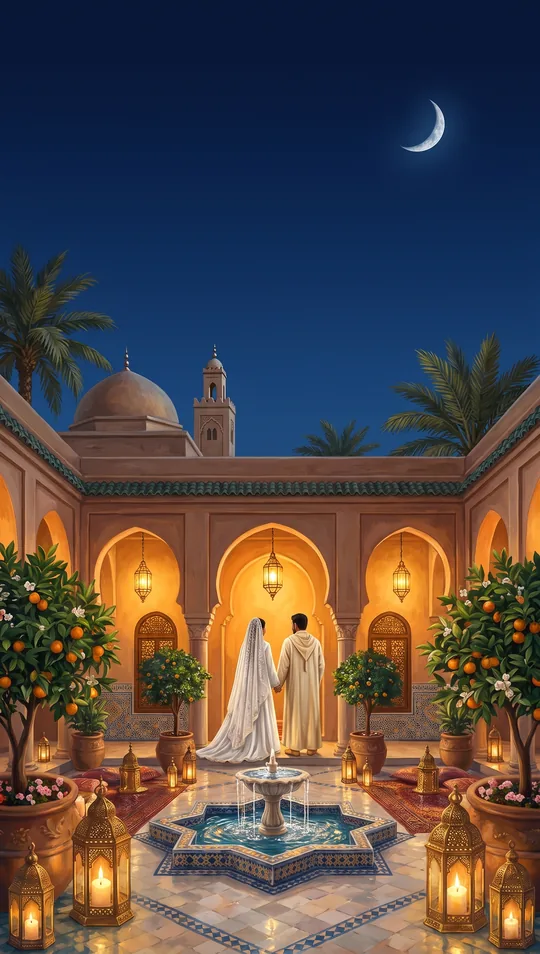
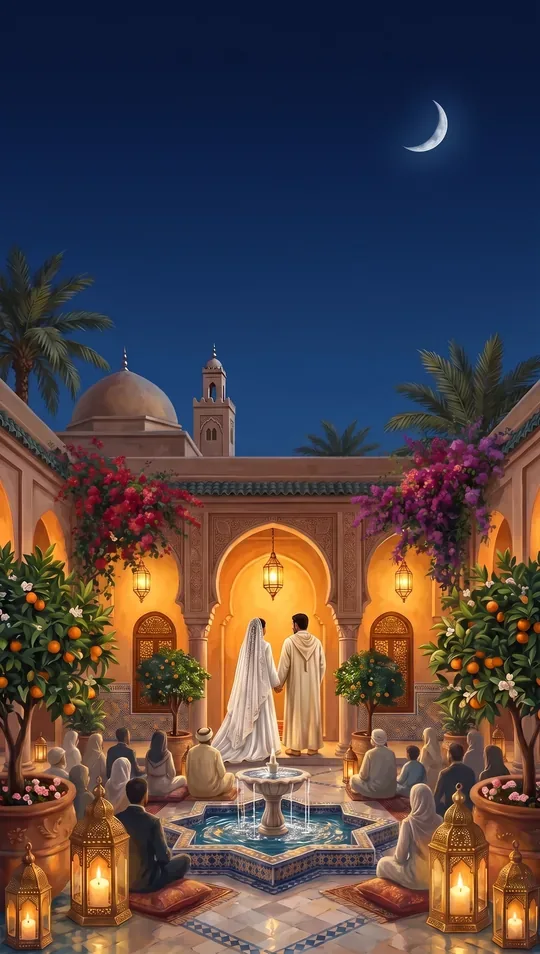
Mille et une nuits et Andalou : script de repeinture et réglages des thèmes (images en cours de génération)
Claude-Session: https://claude.ai/code/session_01R5nF4Xbit5ZovA9fQpJaCu

diff --git a/business/landing/vitrine.js b/business/landing/vitrine.js
@@ -143,7 +143,7 @@
   const VARS=k=>Object.keys(THEMES).filter(v=>v===k||THEMES[v].group===k&&v!==k);
   [...KEYS].sort((a,b)=>!!THEMES[b].compose-!!THEMES[a].compose).forEach(k0=>VARS(k0).forEach(k=>{ const t=THEMES[k], d=DEMOS0.find(x=>x.theme===k&&x.slug!=='yasmine-karim'&&!x.kind&&x.layout!=='long');
     if(!d) return;
-    CREAS.push(Object.assign({},t,{kind:'pages',k,label:t.name+(t.amb?' · '+t.amb:''),desc:t.amb?t.ambSub:(t.style!==t.name?t.style+' · ':'')+t.short,href:'/d/'+d.slug+'/',tag:t.name,img:i=>`/img/themes/${k}-${i}.webp?v=17`})); }));
+    CREAS.push(Object.assign({},t,{kind:'pages',k,label:t.name+(t.amb?' · '+t.amb:''),desc:t.amb?t.ambSub:(t.style!==t.name?t.style+' · ':'')+t.short,href:'/d/'+d.slug+'/',tag:t.name,img:i=>`/img/themes/${k}-${i}.webp?v=18`})); }));
   // notre faire-part reel : les vrais lieux du couple, peints et animes (demo Yasmine & Karim)
   if(KEYS.includes('nuits')) CREAS.push({kind:'pages',k:'yk',label:'Yasmine & Karim',desc:'Leurs vrais lieux, peints et animés : mairie, salle, ville',href:'/d/yasmine-karim/',tag:'Lieux réels peints',
     couple:'Yasmine & Karim',font:'"Great Vibes",cursive',color:'#2c2114',ey:'#8a6a2c',tx:'#5a4632',light:true,img:i=>`/img/reel/yk-${i}.webp`,
@@ -189,7 +189,7 @@
   // une carte par thème, avec ses deux formats : « scène par scène » (démo pages) et « grand tableau » (démo long)
   const card=(k)=>{ const t=THEMES[k], ds=DEMOS.find(x=>x.theme===k&&x.layout!=='long'&&!x.kind), dl=DEMOS.find(x=>x.theme===k&&x.layout==='long'&&!x.kind);
     const m=document.createElement('div'); m.className='model'; m.dataset.theme=k; m.dataset.style=t.style;
-    m.innerHTML=`<a class="pic" href="/d/${esc((ds||dl).slug)}/" target="_blank" rel="noopener" aria-label="Ouvrir le faire-part ${esc(t.name)}"><img src="/img/themes/${k}-1.webp?v=17" alt="" loading="lazy"><img class="pic2" src="/img/themes/${k}-2.webp?v=17" alt="" loading="lazy" aria-hidden="true"><span class="cn" style="${esc(`font-family:${t.font};${t.italic?'font-style:italic;':''}${t.upper?'text-transform:uppercase;letter-spacing:.1em;font-size:19px;':''}`)}">${esc(t.couple)}</span></a><div class="meta"><div><h3>${esc(t.name)}</h3><p class="style">${esc(t.style+' · '+t.short)}</p></div>
+    m.innerHTML=`<a class="pic" href="/d/${esc((ds||dl).slug)}/" target="_blank" rel="noopener" aria-label="Ouvrir le faire-part ${esc(t.name)}"><img src="/img/themes/${k}-1.webp?v=18" alt="" loading="lazy"><img class="pic2" src="/img/themes/${k}-2.webp?v=18" alt="" loading="lazy" aria-hidden="true"><span class="cn" style="${esc(`font-family:${t.font};${t.italic?'font-style:italic;':''}${t.upper?'text-transform:uppercase;letter-spacing:.1em;font-size:19px;':''}`)}">${esc(t.couple)}</span></a><div class="meta"><div><h3>${esc(t.name)}</h3><p class="style">${esc(t.style+' · '+t.short)}</p></div>
       <div class="fmts">${VARS(k).map(v=>{ const d=DEMOS.find(x=>x.theme===v&&x.layout!=='long'&&!x.kind); return d?`<a href="/d/${esc(d.slug)}/" target="_blank" rel="noopener"><i aria-hidden="true"><svg viewBox="0 0 24 24"><path d="M9 6.5v11l9-5.5z"/></svg></i><span><b>${esc(THEMES[v].amb||'Voir l’exemple')}</b><small>${esc(d.couple)}</small></span></a>`:''; }).join('')}</div>
       <div class="acts">${t.compose?`<a class="go" href="/creer/?theme=${esc(k)}">Composer →</a>`:`<a class="go" href="/contact/?theme=${esc(k)}">Avec nous →</a>`}</div></div>`;
     models.appendChild(m); };
@@ -197,7 +197,7 @@
   // faire-part d'un seul événement (« one shot ») : le henné, le sbouâ ; chacun avec sa démo et son lien vers le configurateur
   const one=document.getElementById('oneShots');
   if(one) one.innerHTML=[['henne','Henné','L’invitation à la soirée henné, seule ou en plus du mariage.'],['sbou3','Sbouâ','La naissance de votre enfant, fêtée au septième jour.']].map(([id,nm,tx])=>{ const d=DEMOS.find(x=>x.kind===id); if(!d) return ''; const t=THEMES[d.theme];
-    return `<div class="model one"><a class="pic" href="/d/${esc(d.slug)}/" target="_blank" rel="noopener"><img src="/img/themes/${esc(d.theme)}-${id==='henne'?2:1}.webp?v=17" alt="" loading="lazy"><span class="cn" style="${esc(`font-family:${t.font};${t.italic?'font-style:italic;':''}`)}">${esc(d.couple)}</span></a>
+    return `<div class="model one"><a class="pic" href="/d/${esc(d.slug)}/" target="_blank" rel="noopener"><img src="/img/themes/${esc(d.theme)}-${id==='henne'?2:1}.webp?v=18" alt="" loading="lazy"><span class="cn" style="${esc(`font-family:${t.font};${t.italic?'font-style:italic;':''}`)}">${esc(d.couple)}</span></a>
       <div class="meta"><div><h3>${nm}</h3><p class="style">${esc(t.name)} · un seul événement</p><p>${tx}</p></div></div>
       <div class="fmts"><a href="/d/${esc(d.slug)}/" target="_blank" rel="noopener"><i aria-hidden="true"><svg viewBox="0 0 24 24"><path d="M9 6.5v11l9-5.5z"/></svg></i><span><b>Voir l’exemple</b><small>${esc(d.couple)}</small></span></a></div>
       <div class="acts">${t.compose?`<a class="go" href="/creer/?occasion=${id}&theme=${esc(d.theme)}">Composer →</a>`:`<a class="go" href="/contact/?occasion=${id}&theme=${esc(d.theme)}">Avec nous →</a>`}</div></div>`; }).join('');
@@ -293,7 +293,7 @@
     if(e.lieu!==was&&e.place===PLACE[was]&&PLACE[e.lieu]){ e.place=PLACE[e.lieu]; document.querySelectorAll(`#cStory li.ev[data-i="${i}"] input[data-k="place"]`).forEach(x=>x.value=e.place); } });
   fixLieux();
   GRPS.forEach(g=>{ const k0=CK.find(k=>grp(k)===g), t=THEMES[k0], b=document.createElement('button'); b.type='button'; b.className='th'; b.dataset.id=g;
-    b.innerHTML=`<span style="background-image:url('/img/themes/${k0}-1.webp?v=17')"></span>${esc(t.name)}`;
+    b.innerHTML=`<span style="background-image:url('/img/themes/${k0}-1.webp?v=18')"></span>${esc(t.name)}`;
     b.onclick=()=>{ if(grp(C.k)!==g){ C.k=k0; C.font='theme'; fixLieux(); } paint(); }; $('cStyles').appendChild(b); });
   // les deux formats, annoncés dès le début : scène par scène (un événement par écran) ou grand tableau (un seul tableau qu'on descend)
   // img/reel/scenes-<thème>.webp et tableau-<thème>.webp : captures des deux démos du thème, toute la page (7 écrans de 844 px
@@ -308,7 +308,7 @@
   function buildAmb(){ const g=grp(C.k); if(ambG===g) return; ambG=g; const box=$('cFmt'), V=CK.filter(k=>grp(k)===g); box.innerHTML='';
     box.closest('.fld').hidden=V.length<2;
     V.forEach(k=>{ const t=THEMES[k], b=document.createElement('button'); b.type='button'; b.className='fmtc'; b.dataset.id=k;
-      b.innerHTML=`<span class="fv">${REEL.includes(k)?`<i class="tbp"><i class="tb scenes" style="background-image:url('/img/reel/scenes-${k}.webp')"></i></i>`:[1,2,4].map(n=>`<i style="background-image:url('/img/themes/${k}-${n}.webp?v=17')"></i>`).join('')}</span><b>${esc(t.amb||t.name)}</b><small>${esc(t.ambSub||'')}</small>`;
+      b.innerHTML=`<span class="fv">${REEL.includes(k)?`<i class="tbp"><i class="tb scenes" style="background-image:url('/img/reel/scenes-${k}.webp')"></i></i>`:[1,2,4].map(n=>`<i style="background-image:url('/img/themes/${k}-${n}.webp?v=18')"></i>`).join('')}</span><b>${esc(t.amb||t.name)}</b><small>${esc(t.ambSub||'')}</small>`;
       b.onclick=()=>{ C.k=k; fixLieux(); paint(); }; box.appendChild(b); }); }
   const PLANSUB={carte:'L’image et le PDF, à envoyer et à imprimer',page:'Un lien, tout sur une page',essentiel:'2 événements, lieux de notre bibliothèque',signature:'+ votre lieu peint d’après photo, un lien par famille',couture:'tout sur mesure, on vous écrit'};
   opt($('cPlan'),Object.keys(PLANS),'plan','',(b,id)=>{ b.className='op-card'; b.innerHTML=`<b>${PLANS[id].name} · ${PLANS[id].price}</b><small>${PLANSUB[id]}</small>`; });
@@ -629,7 +629,7 @@
       // « Texte seul » : écran simple (scène par scène), ou la scène peinte du thème dans le cadre (grand tableau)
       const sim=l.querySelector('[data-lieu="simple"] em'); if(sim) sim.textContent=C.fmt==='long'?'Scène du thème':'Texte seul';
       l.querySelectorAll('[data-lieu]').forEach(b=>{ const id=b.dataset.lieu; b.setAttribute('aria-pressed',id==='simple'?e.bg!=='scene':e.bg==='scene'&&id===e.lieu);
-        b.firstChild.style.backgroundImage=id==='s2'?`url('/img/themes/${C.k}-2.webp?v=17')`:id==='simple'?(C.fmt==='long'?`url('/img/themes/${C.k}-${2+(+l.dataset.i%3)}.webp?v=17')`:`url('/img/lieux/${kOf('fond')}-fond.webp?v=17')`):`url('/img/lieux/${kOf(id==='photo'?'eglise':id)}-${id==='photo'?(THEMES[C.k].lieux||['eglise'])[0]:id}.webp?v=17')`; });
+        b.firstChild.style.backgroundImage=id==='s2'?`url('/img/themes/${C.k}-2.webp?v=18')`:id==='simple'?(C.fmt==='long'?`url('/img/themes/${C.k}-${2+(+l.dataset.i%3)}.webp?v=18')`:`url('/img/lieux/${kOf('fond')}-fond.webp?v=18')`):`url('/img/lieux/${kOf(id==='photo'?'eglise':id)}-${id==='photo'?(THEMES[C.k].lieux||['eglise'])[0]:id}.webp?v=18')`; });
       // la grande vignette reprend le décor choisi, avec son nom
       const sel=l.querySelector('[data-lieu][aria-pressed="true"]'), pic=l.querySelector('[data-pick] span');
       if(sel&&pic){ pic.style.backgroundImage=sel.firstChild.style.backgroundImage; pic.dataset.n=(sel.querySelector('em')||{}).textContent||sel.textContent.replace('Signature','').trim(); } });
@@ -651,7 +651,7 @@
     const SEAL={or:['or','#fbe3a0','#c99a3a','#6e4a12'],sauge:['sauge','#e4ecd6','#8fa37f','#3f4d36'],terracotta:['terracotta','#f5b085','#c0643f','#4f1f0c'],nuit:['bleu','#9bb4e8','#2f4f94','#0c1a3d'],rose:['rose','#fff0f2','#d99aa6','#7a4250'],bordeaux:['terracotta','#e8a0a8','#7a2e3b','#3a1018'],lavande:['bleu','#d9d2f0','#8a7fb5','#3d3660'],emeraude:['sauge','#cfe7db','#2f6b57','#143427'],ardoise:['bleu','#c9d0d8','#4a5560','#1f262c'],champagne:['or','#f6ead2','#cdb48a','#6e5a35']}[p.seal||C.pal]||['or','#fbe3a0','#c99a3a','#6e4a12'];
     $('opSeal').style.backgroundImage=`url('/img/seals/${SEAL[0]}.webp')`;
     mountMini(t,p);
-    [$('cOpen'),$('cReveal')].forEach(x=>{ x.style.setProperty('--sc',C.fmt==='long'?`url('/img/long/${C.k}/thumb.webp')`:`url('/img/themes/${C.k}-1.webp?v=17')`); x.classList.toggle('lg',C.fmt==='long'); x.style.setProperty('--op',`url('/img/open/${C.k}-portes.webp')`); x.querySelectorAll('.ov-door').forEach(D=>window.sceauDoorFit&&sceauDoorFit(D,THEMES[C.k].door,D.querySelector('.ow'),D.querySelector('.dl'),D.querySelector('.dr'))); x.style.setProperty('--ri',`url('/img/open/${C.k}-rideau.webp')`); x.style.setProperty('--seal',`url('/img/seals/${SEAL[0]}.webp')`); x.style.setProperty('--pc',p.c); });
+    [$('cOpen'),$('cReveal')].forEach(x=>{ x.style.setProperty('--sc',C.fmt==='long'?`url('/img/long/${C.k}/thumb.webp')`:`url('/img/themes/${C.k}-1.webp?v=18')`); x.classList.toggle('lg',C.fmt==='long'); x.style.setProperty('--op',`url('/img/open/${C.k}-portes.webp')`); x.querySelectorAll('.ov-door').forEach(D=>window.sceauDoorFit&&sceauDoorFit(D,THEMES[C.k].door,D.querySelector('.ow'),D.querySelector('.dl'),D.querySelector('.dr'))); x.style.setProperty('--ri',`url('/img/open/${C.k}-rideau.webp')`); x.style.setProperty('--seal',`url('/img/seals/${SEAL[0]}.webp')`); x.style.setProperty('--pc',p.c); });
     $('opSealTxt').innerHTML=iniH; $('opSealTxt').style.cssText=`--l:${SEAL[1]};--m:${SEAL[2]};--d:${SEAL[3]}`;
     $('opTap').textContent=C.op==='env'?'Touchez le sceau pour ouvrir':'Touchez pour ouvrir';
     { const o=$('cpOp'); o.style.setProperty('--door',`url('/img/open/${C.k}-portes.webp')`); o.style.setProperty('--cur',`url('/img/open/${C.k}-rideau.webp')`); o.style.setProperty('--pal',p.c); o.style.setProperty('--man',DOORMEN.includes(C.k)?`url('/img/open/${C.k}-portier.webp')`:'none');
@@ -675,8 +675,8 @@
       // un numéro = scène du thème ; un nom = lieu de la bibliothèque, ou « fond » pour un écran simple
       // calque : le sujet détouré est posé entier au bas de l'écran sur le fond du thème (même rendu que le moteur)
       const hasCal=((window.SCEAU_CALQUES||{})[kk]||[]).includes(String(img));
-      const src=hasCal?`/img/lieux/${kk}-ciel.webp`:typeof img==='number'?`/img/themes/${kk}-${img}.webp?v=17`:`/img/lieux/${kk}-${img}.webp?v=17`;
-      const sub=hasCal?`/img/calques/${kk}-${img}.webp?v=17`:'';
+      const src=hasCal?`/img/lieux/${kk}-ciel.webp`:typeof img==='number'?`/img/themes/${kk}-${img}.webp?v=18`:`/img/lieux/${kk}-${img}.webp?v=18`;
+      const sub=hasCal?`/img/calques/${kk}-${img}.webp?v=18`:'';
       return {lt,c,html:h=>`<section class="pv-sc${lt?' light':''}" data-img="${esc(src)}" data-sub="${esc(sub)}" style="${esc(extra||'')}">${h(c)}</section>`}; };
     // boutons de l'aperçu : même pastille que le faire-part (invite.css .b), icône dans un médaillon à la couleur choisie
     const btn=(c,label,icon)=>`<span class="bt" style="color:${c.tx};--pal:${p.c}">${BT_IC[icon]}${esc(label)}</span>`;

diff --git a/business/landing/themes.js b/business/landing/themes.js
@@ -177,7 +177,15 @@ window.sceauDoorFit=function(root,box,wall,l,r){
 window.SCEAU_THEMES.nuits.compose=true; window.SCEAU_THEMES.alhambra.compose=true;
 // leurs lieux peints (img/lieux) : tous proposés, le thème n'impose pas la mosquée ; l'Andalou n'a pas d'église (-> mairie)
 window.SCEAU_THEMES.nuits.lieux=['mairie','eglise','mosquee','salle','jardin','plage'];
-window.SCEAU_THEMES.alhambra.lieux=['mairie','mosquee','salle','jardin','plage']; window.SCEAU_THEMES.alhambra.lieuAlt={eglise:'mairie'};
+window.SCEAU_THEMES.alhambra.lieux=['mairie','eglise','mosquee','salle','jardin','plage'];
+/* repeints le 10 octobre 2026 selon les règles de Dolce Vita (tools/nuits-andalou.py, 38 images accordées) : des peintures
+   entières composées pour le plein écran (cover), sans calques ; l'accueil s'ouvre sur les mains, la réponse sur les verres
+   (thé à la menthe, citronnade à la fleur d'oranger), chaque écran d'infos a sa scène, et la fête, le cocktail, la sortie
+   sont des décors de plus. L'Andalou est de jour (texte foncé), sauf sa fête du soir. */
+['nuits','alhambra'].forEach(k=>{ const t=window.SCEAU_THEMES[k]; t.nocal=true; t.home='mains'; t.extra=['fete','cocktail','sortie'];
+  t.cover=['1','2','3','4','mains','verres','fond','mairie','eglise','mosquee','salle','jardin','plage','fete','cocktail','sortie','prog','dress','info'];
+  t.pageImg={program:'prog',dress:'dress',stay:'info',infos:'info',rsvp:'verres'}; });
+window.SCEAU_THEMES.alhambra.darkLieux=['fete'];
 window.SCEAU_BASMALA='﷽';
 window.SCEAU_BASMALA_LABEL='Bismillah ar-Rahman ar-Rahim';
 window.sceauEy=function(t){ t=t==null?'':String(t); return /^\s*(bismillah|bismillah\s+ar-?rahman\s+ar-?rahim|basmala)\s*$/i.test(t)?{ar:true,text:window.SCEAU_BASMALA}:{ar:false,text:t}; };

diff --git a/business/landing/invite.js b/business/landing/invite.js
@@ -96,7 +96,7 @@
   const isJ=n=>String(n).startsWith('j:'), jk=n=>String(n).slice(2);
   const hourOf=e=>{ const m=/T(\d{1,2})/.exec(e&&e.start||''); return m?+m[1]:12; };
   const dayKey=(k,day)=>day&&J&&(/^\d+$/.test(String(k))||k==='fond'||(J.lieux||[]).includes(k)||k===J.home||Object.values(J.pageImg||{}).includes(k))?'j:'+k:k;
-  const IMGV=23, img=n=>isJ(n)?`/img/hd/${T.jour}-${jk(n)}.webp?v=${IMGV}`:`/img/hd/${I.theme}-${n}.webp?v=${IMGV}`;
+  const IMGV=24, img=n=>isJ(n)?`/img/hd/${T.jour}-${jk(n)}.webp?v=${IMGV}`:`/img/hd/${I.theme}-${n}.webp?v=${IMGV}`;
   // calques : pour les scènes qui en ont (build-site.py liste img/calques/<thème>-<n>.webp), le décor est le fond calme du
   // thème et le sujet détouré est posé ENTIER en bas de l'écran (plus de rognage selon le téléphone), avec un peu de profondeur
   const CAL=new Set(I.calques||[]), hasCal=n=>CAL.has(String(n)), fond=`/img/hd/${I.theme}-ciel.webp?v=${IMGV}`, cal=n=>`/img/calques/${I.theme}-${n}.webp?v=${IMGV}`;

diff --git a/business/landing/carte.js b/business/landing/carte.js
@@ -10,7 +10,7 @@
 (function(){
   const TH=()=>window.SCEAU_THEMES||{};
   const esc=t=>String(t==null?'':t).replace(/[&<>"']/g,c=>({'&':'&amp;','<':'&lt;','>':'&gt;','"':'&quot;',"'":'&#39;'}[c]));
-  const IMGV=23;
+  const IMGV=24;
   const INK='#2b2621';
   // les trois papiers (carte.css, .ct-p-*) : leur teinte, et la plus sombre que prend le relief (pour mesurer l'encre)
   const PAPERS={coton:{c:'#f8f2e7',low:'#ddd3c3'},aquarelle:{c:'#f9f6f0',low:'#d8d3ca'},velin:{c:'#f7f0e2',low:'#e0d6c4'}};

diff --git a/business/tools/nuits-andalou.py b/business/tools/nuits-andalou.py
@@ -1,0 +1,173 @@
+"""Mille et une nuits (riad de nuit, texte blanc) et l'Andalou (palais de jour, texte foncé) repeints selon les règles de
+Dolce Vita et Douce France (10 octobre 2026, 38 images accordées, ~5,70 € : « tu l'as archi mal fait, il respecte pas les
+règles qu'on a faites pour Dolce Vita, c'est mal coupé »). L'Andalou était en vignettes sur papier crème, coupées droit.
+
+Par thème, 19 images, une génération chacune, composées pour le plein écran (cover, sujet dans les 80 % du milieu, ciel ou
+mur qui descend derrière toute la scène, rien qui s'arrête sur une ligne droite, invités de dos) :
+  1 2 3 4                                  les scènes du thème (la 1 fixe le style : peinte d'abord, puis référence des autres)
+  mains verres fond                        l'accueil (gros plan), la réponse, l'écran « texte seul »
+  mairie eglise mosquee salle jardin plage les lieux d'un événement (« le thème n'est qu'un style » : une mairie reste une mairie)
+  fete cocktail sortie                     les décors en plus d'un événement
+  prog dress info                          programme, dress code, infos
+
+Usage : python3 business/tools/nuits-andalou.py [--phase 1|2] [clé ...]   (clé = <thème>-<image>)
+Sortie : img/hd/<thème>-<clé>.webp (1080 x 1909), img/lieux/ (540 x 954), et img/themes/ pour les scènes 1 à 4.
+Une image qui échoue au contrôle est signalée, pas refaite (aucune génération sans accord chiffré, CLAUDE.md 32f)."""
+import os, sys, concurrent.futures as cf
+from PIL import Image
+HERE = os.path.dirname(os.path.abspath(__file__)); sys.path.insert(0, HERE)
+import lieux as L, check_images as C
+
+WHOLE = ("One single continuous painting from edge to edge: the sky or the wall continues down BEHIND the whole scene to the "
+         "horizon; every tree, roof, dome and arch is painted WHOLE, never cut by a straight line. No blank paper, no cream "
+         "void, no flat band of colour, no vignette, no frame, no border.")
+NIGHT = ("WHITE text is written in the upper part, so the area from 10% to 50% of the height is a REAL PAINTED NIGHT SKY, "
+         "deep blue to indigo, smooth and dark (a thin crescent moon or a few faint stars at most), that continues down behind "
+         "the buildings and trees. Palm crowns and towers stay below 50% of the height.")
+DAY = ("DARK text is written in the upper part, so the area from 10% to 50% of the height is a REAL PAINTED SKY, soft and "
+       "pale (pale blue to warm ivory, a few light delicate clouds), light enough for dark text, that continues down behind "
+       "the arcades, towers and cypress trees. Towers and cypresses stay below 50% of the height.")
+FOCUS_N = ("This is a CLOSE-UP. The upper part of the image, from the top down to 55% of the height, is the softly blurred "
+           "background of the place at night (deep blue to indigo, a few very soft distant lantern lights at most), DARK and "
+           "CALM, because WHITE text is written there.")
+FOCUS_D = ("This is a CLOSE-UP. The upper part of the image, from the top down to 55% of the height, is the softly blurred "
+           "background of the place in daylight (pale sky and soft out-of-focus colours), LIGHT and CALM, because DARK text "
+           "is written there.")
+PEOPLE = ("The guests are shown only from behind or as small distant silhouettes: no face is visible, nobody looks at the "
+          "viewer. It stays symbolic and elegant, never a crowded stock photo.")
+HANDS = "Only hands are visible (no face, no body beyond the wrists and sleeves)."
+STYLE_ONLY = ("The theme is only a painting style: the place itself is an ordinary real wedding venue, painted in the style, "
+              "palette and light of the references.")
+# l'Andalou : ses anciennes images sont des vignettes posées sur du papier crème ; on ne garde que la touche et les couleurs
+VIGNETTE = ("IMPORTANT: some reference images are small vignettes on blank cream paper. DO NOT copy that layout: keep only "
+            "their brushwork, palette and Andalusian architecture, and paint a complete scene that fills the whole frame.")
+
+N1, A1 = ('nuits', 'nuits-1@new', 'nuits-3', 'nuits-mosquee'), ('alhambra', 'alhambra-1@new', 'alhambra-3', 'alhambra-mosquee')
+J = {
+    # ---------- Mille et une nuits : un riad, la nuit, texte blanc ----------
+    'nuits-1': (('nuits', 'nuits-1', 'nuits-3', 'nuits-mosquee'), NIGHT, PEOPLE + " The bride and groom seen from behind "
+        "climbing the lantern-lit steps to the carved arched door of a riad at night, bougainvillea and jasmine on the walls, "
+        "two palm trees, a crescent moon"),
+    'nuits-2': (N1, FOCUS_N, HANDS + " The henna night, seen from above: a bride's two hands painted with fine henna "
+        "patterns, resting on a brass tray with henna cones, rose petals and two small glasses of mint tea, on a zellige "
+        "floor, warm lanterns around, in the lower part of the image"),
+    'nuits-3': (N1, NIGHT, PEOPLE + " The ceremony in the courtyard of the riad at night: the bride and groom seen from behind "
+        "under a carved horseshoe arch, guests seated in rows seen from behind, a fountain, orange trees in pots, lanterns"),
+    'nuits-4': (N1, NIGHT, PEOPLE + " The party in a great caidal tent at night: warm light inside, guests dancing seen from "
+        "behind as silhouettes, rugs and lanterns, a few sky lanterns rising far away in the dark sky"),
+    'nuits-mains': (N1, FOCUS_N, HANDS + " The joined hands of the bride and groom with their wedding rings, her hand with "
+        "delicate henna, resting on embroidered velvet beside a small plate of dates and a glowing brass lantern, in the "
+        "lower part of the image"),
+    'nuits-verres': (N1, FOCUS_N, HANDS + " Two hands raising two gold-rimmed glasses of mint tea that touch in a toast, in "
+        "the lower part of the image, the blurred lanterns of a riad courtyard at night behind"),
+    'nuits-fond': (N1, NIGHT, "The 'text only' screen of the invitation: almost the whole image is a calm painted night sky, "
+        "deep blue to indigo, a thin crescent moon and a few faint stars. Only the lower 30% shows, painted whole and touching "
+        "the bottom: the rooftops and a small minaret of an old medina, two palm trees and a few warm lanterns. No people"),
+    'nuits-mairie': (N1, NIGHT, PEOPLE + " " + STYLE_ONLY + " A classic French town hall (mairie) on the wedding evening: its "
+        "stone facade with a clock and a flag, every window glowing warm, guests in suits and caftans seen from behind on the "
+        "front steps, a few lanterns"),
+    'nuits-eglise': (N1, NIGHT, PEOPLE + " " + STYLE_ONLY + " A classic stone church with its bell tower at dusk, its wooden "
+        "door open and lit, guests seen from behind gathering on the square before the ceremony"),
+    'nuits-mosquee': (N1, NIGHT, PEOPLE + " A graceful mosque with its square minaret and carved horseshoe doorway at night, "
+        "seen from its courtyard with a fountain and orange trees, a few guests seen from behind walking towards the door"),
+    'nuits-salle': (N1, NIGHT, PEOPLE + " " + STYLE_ONLY + " An elegant wedding reception venue at night: a large lit hall "
+        "opening on a courtyard, lanterns at the entrance, guests seen from behind arriving, every window glowing"),
+    'nuits-jardin': (N1, NIGHT, PEOPLE + " A garden ceremony at dusk: an arch of white flowers at the end of an aisle between "
+        "rows of chairs with guests seen from behind, orange trees and palm trees, lanterns along the aisle"),
+    'nuits-plage': (N1, NIGHT, PEOPLE + " A seaside ceremony at dusk: a light draped arch on the sand facing the sea, a path "
+        "of rose petals lined with lanterns, a few guests seen from behind"),
+    'nuits-fete': (N1, NIGHT, PEOPLE + " The evening party in the courtyard of the riad: strings of warm lanterns, couples "
+        "dancing seen from behind as silhouettes, musicians in the corner, a fountain, palm trees"),
+    'nuits-cocktail': (N1, NIGHT, PEOPLE + " The reception on a riad terrace at dusk: low tables with mint tea, pastries and "
+        "dates, guests chatting seen from behind, lanterns, the rooftops of the medina beyond"),
+    'nuits-sortie': (N1, NIGHT, PEOPLE + " Leaving the ceremony: the bride and groom seen from behind walking out of a carved "
+        "arched door under a shower of rose petals thrown by the guests on each side, lanterns on the path"),
+    'nuits-prog': (N1, NIGHT, "A calm view of a riad rooftop terrace at night, set with low cushions, brass lanterns and a "
+        "tea tray, the domes and minarets of the medina beyond. No people"),
+    'nuits-dress': (N1, NIGHT, "An embroidered caftan in deep green and gold displayed on a stand beside a carved wooden "
+        "door, a pair of embroidered slippers and a lantern on the zellige floor, in a riad at night. No people"),
+    'nuits-info': (N1, NIGHT, "The way to the wedding: an old medina gate (bab) at night lit by lanterns, a palm-lined road "
+        "leading to it and a vintage car waiting. No people"),
+    # ---------- l'Andalou : un palais andalou, de jour, texte foncé ----------
+    'alhambra-1': (('alhambra', 'alhambra-1', 'alhambra-3', 'alhambra-mosquee'), DAY, VIGNETTE + " " + PEOPLE + " The bride "
+        "and groom seen from behind walking along the long reflecting pool of an Andalusian palace courtyard, carved arcades "
+        "on each side, myrtle hedges and orange trees, a slender tower beyond"),
+    'alhambra-2': (A1, DAY, VIGNETTE + " " + PEOPLE + " The ceremony in the courtyard of orange trees of the palace: the "
+        "couple seen from behind under a carved arch, guests seated in rows seen from behind, a marble fountain"),
+    'alhambra-3': (A1, DAY, VIGNETTE + " " + PEOPLE + " The dinner under the arcades in the golden afternoon light: a long "
+        "table with white cloths, candles and oranges along the pool, guests seen from behind taking their seats"),
+    'alhambra-4': (A1, DAY, VIGNETTE + " The gardens of the palace: water jets along a long canal, flower beds, clipped "
+        "hedges and cypress trees, a white pavilion at the end. No people"),
+    'alhambra-mains': (A1, FOCUS_D, VIGNETTE + " " + HANDS + " The joined hands of the bride and groom with their wedding "
+        "rings, resting on a carved marble ledge with orange blossoms, in the lower part of the image, the courtyard softly "
+        "blurred behind"),
+    'alhambra-verres': (A1, FOCUS_D, VIGNETTE + " " + HANDS + " Two hands raising two glasses of orange-blossom lemonade "
+        "that touch in a toast, in the lower part of the image, the arcades and orange trees softly blurred behind"),
+    'alhambra-fond': (A1, DAY, VIGNETTE + " The 'text only' screen of the invitation: almost the whole image is a calm pale "
+        "sky. Only the lower 30% shows, painted whole and touching the bottom: the towers and walls of the palace on its hill, "
+        "cypress trees and orange trees. No people"),
+    'alhambra-mairie': (A1, DAY, VIGNETTE + " " + PEOPLE + " " + STYLE_ONLY + " A classic French town hall (mairie) on the "
+        "wedding day: its stone facade with a clock and a flag, guests seen from behind on the front steps, orange trees in pots"),
+    'alhambra-eglise': (A1, DAY, VIGNETTE + " " + PEOPLE + " " + STYLE_ONLY + " A classic stone church with its bell tower in "
+        "sunlight, its wooden door open, guests seen from behind gathering on the square before the ceremony"),
+    'alhambra-mosquee': (A1, DAY, VIGNETTE + " " + PEOPLE + " A graceful Andalusian mosque with its square minaret and carved "
+        "horseshoe doorway, seen from its courtyard with a fountain and orange trees, a few guests seen from behind"),
+    'alhambra-salle': (A1, DAY, VIGNETTE + " " + PEOPLE + " " + STYLE_ONLY + " An elegant wedding reception venue with arcades "
+        "around a courtyard, tables with white cloths, guests seen from behind arriving"),
+    'alhambra-jardin': (A1, DAY, VIGNETTE + " " + PEOPLE + " A garden ceremony: an arch of white flowers at the end of an aisle "
+        "between rows of chairs with guests seen from behind, cypress and orange trees"),
+    'alhambra-plage': (A1, DAY, VIGNETTE + " " + PEOPLE + " A seaside ceremony on the Andalusian coast: a light draped arch on "
+        "the sand facing the sea, a path of petals, a few guests seen from behind, white village on the cliff far away"),
+    'alhambra-fete': (A1, NIGHT, VIGNETTE + " " + PEOPLE + " The evening party in the palace courtyard at night: lanterns along "
+        "the arcades and the pool, couples dancing seen from behind as warm silhouettes"),
+    'alhambra-cocktail': (A1, DAY, VIGNETTE + " " + PEOPLE + " The reception under the arcades: a table with orange-blossom "
+        "lemonade, mint tea and pastries, guests chatting seen from behind, orange trees"),
+    'alhambra-sortie': (A1, DAY, VIGNETTE + " " + PEOPLE + " Leaving the ceremony: the bride and groom seen from behind walking "
+        "out through a carved arch under a shower of rose petals thrown by the guests on each side"),
+    'alhambra-prog': (A1, DAY, VIGNETTE + " A calm view of the palace terrace looking over the gardens and the city below, a "
+        "table set with white cloth and oranges, cypresses. No people"),
+    'alhambra-dress': (A1, DAY, VIGNETTE + " A silk shawl with fringes and a painted fan laid on a carved stone bench in the "
+        "courtyard, roses and orange blossoms beside, arcades behind. No people"),
+    'alhambra-info': (A1, DAY, VIGNETTE + " The way to the wedding: a cypress-lined path climbing to the palace gate, a vintage "
+        "car waiting at the foot of the hill. No people"),
+}
+ANCHORS = ['nuits-1', 'alhambra-1']
+NIGHTZ = (NIGHT, FOCUS_N)
+SRC = '/tmp/claude-0/nuits-andalou'
+
+
+def ref(name):
+    # « nuits-1@new » : la nouvelle scène 1 (peinte en phase 1), sinon l'image actuelle (sauvegardée avant la génération)
+    if name.endswith('@new'): return os.path.join(L.IMG, 'hd', name[:-4] + '.webp')
+    old = os.path.join(SRC, 'avant', name + '.webp'); return old if os.path.exists(old) else os.path.join(L.IMG, 'hd', name + '.webp')
+
+
+def make(key):
+    (th, *refs), zone, subject = J[key]
+    t = L.T[th]; ink = (255, 255, 255) if zone in NIGHTZ else C.hex_rgb(t['color'])
+    png = os.path.join(SRC, key + '.png')
+    if os.path.exists(png): return key + ' : déjà générée'
+    prompt = ("The reference images are scenes from the same illustrated wedding invitation theme. "
+              f"Paint a NEW scene of the same series. {subject}. "
+              "Match the references: same artistic medium and brushwork, same colour palette, same light. "
+              "Vertical 9:16 phone screen. " + WHOLE + " " + zone + " The subject sits in the lower 45% of the image and "
+              "touches the bottom. It will be shown on a taller phone and cropped by about 10% on EACH side: keep everything "
+              "important within the central 80% of the width; the outer 10% on each side only shows the scenery continuing. "
+              "No text, no letters, no signs with writing, no watermark.")
+    if not L.gemini(png, prompt, [ref(r) for r in refs]): return key + ' : ÉCHEC génération'
+    r = C.analyse(png, ink); good = r['agitation'] <= C.AGIT_MAX and r['contrast'] >= C.CONTRAST_MIN
+    k = key.split('-', 1)[1]; L.save(png, th, k)
+    if k in '1234': Image.open(os.path.join(L.IMG, 'lieux', f'{th}-{k}.webp')).save(os.path.join(L.IMG, 'themes', f'{th}-{k}.webp'), 'WEBP', quality=82, method=6)
+    return f"{key} : {'ok' if good else 'À REVOIR'} (agitation {r['agitation']}, contraste {r['contrast']})"
+
+
+if __name__ == '__main__':
+    a = sys.argv[1:]; phase = None
+    if '--phase' in a: i = a.index('--phase'); phase = a[i + 1]; del a[i:i + 2]
+    os.makedirs(os.path.join(SRC, 'avant'), exist_ok=True)
+    for k in J:   # sauvegarde des images actuelles (références de style, et retour en arrière possible)
+        src, dst = os.path.join(L.IMG, 'hd', k + '.webp'), os.path.join(SRC, 'avant', k + '.webp')
+        if os.path.exists(src) and not os.path.exists(dst): Image.open(src).save(dst)
+    keys = a or (ANCHORS if phase == '1' else [k for k in J if k not in ANCHORS])
+    with cf.ThreadPoolExecutor(6) as ex:
+        for res in ex.map(make, keys): print(res, flush=True)
